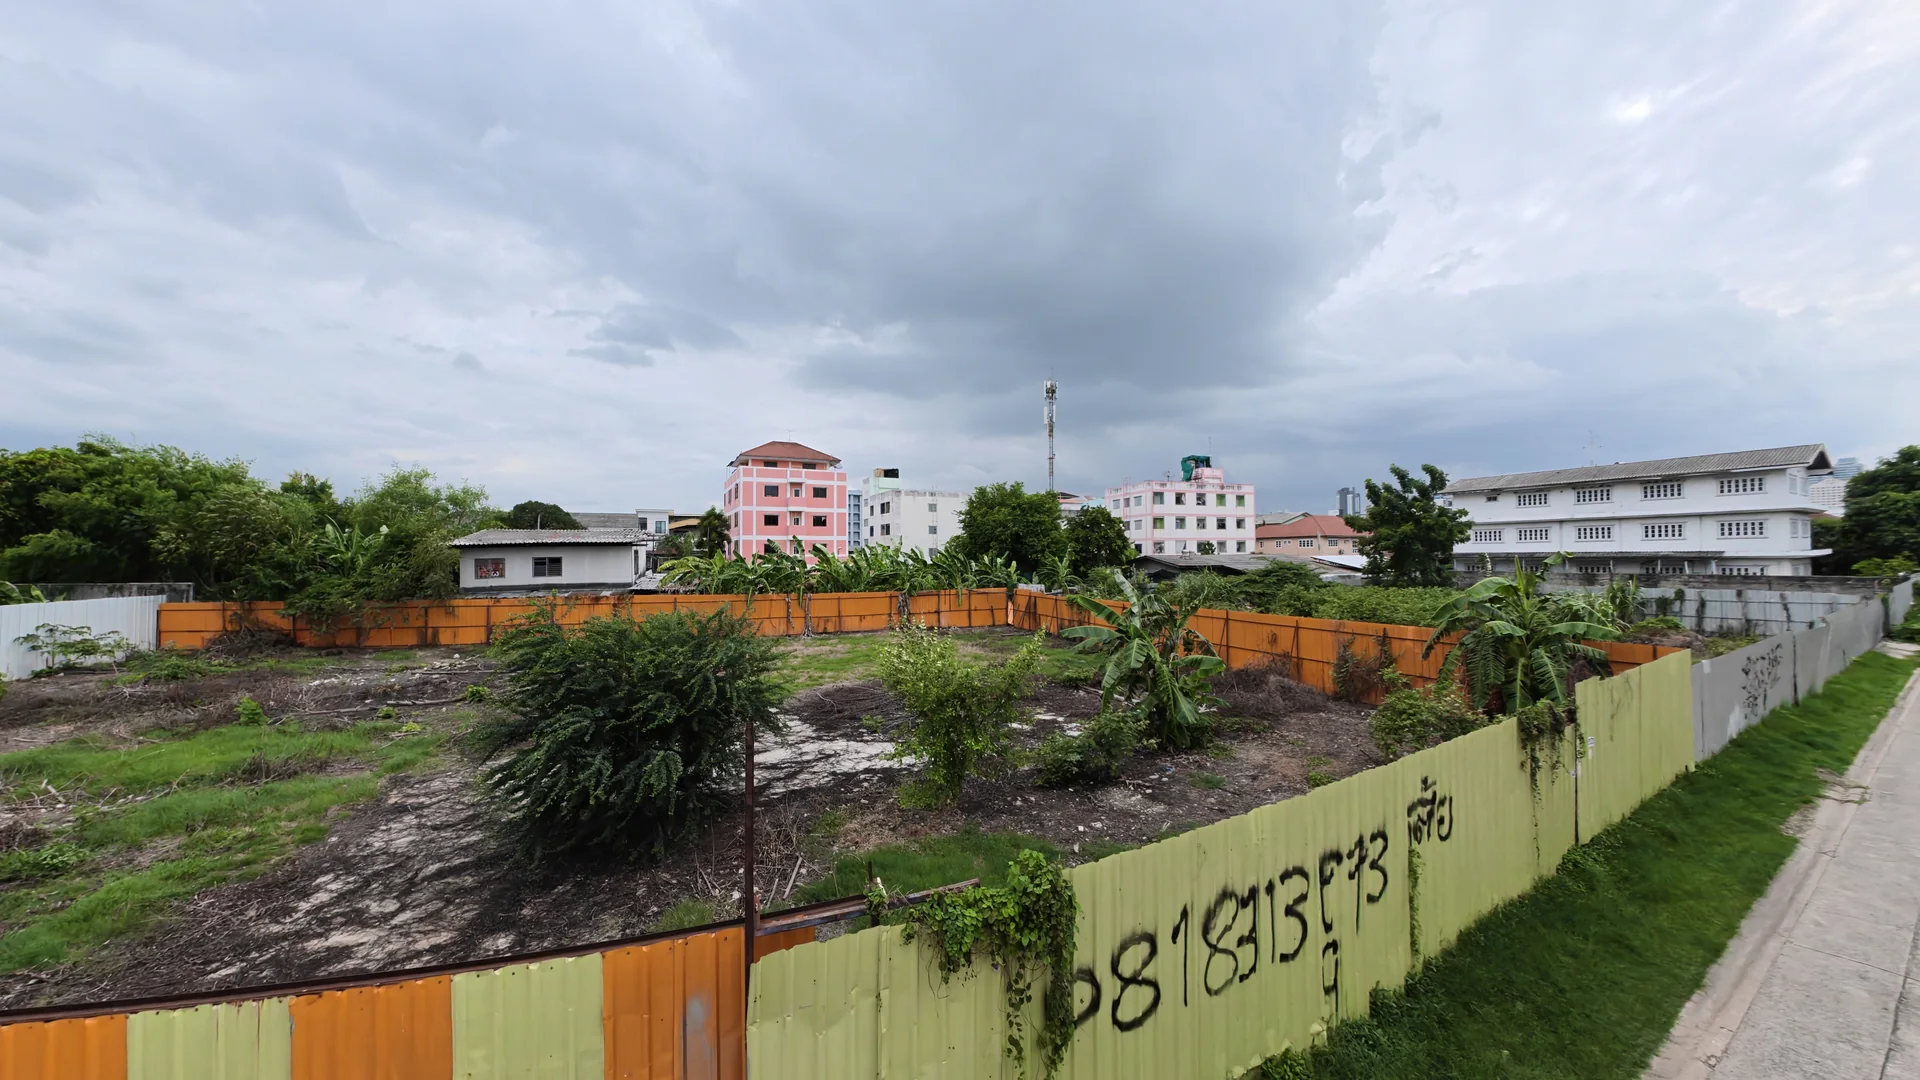
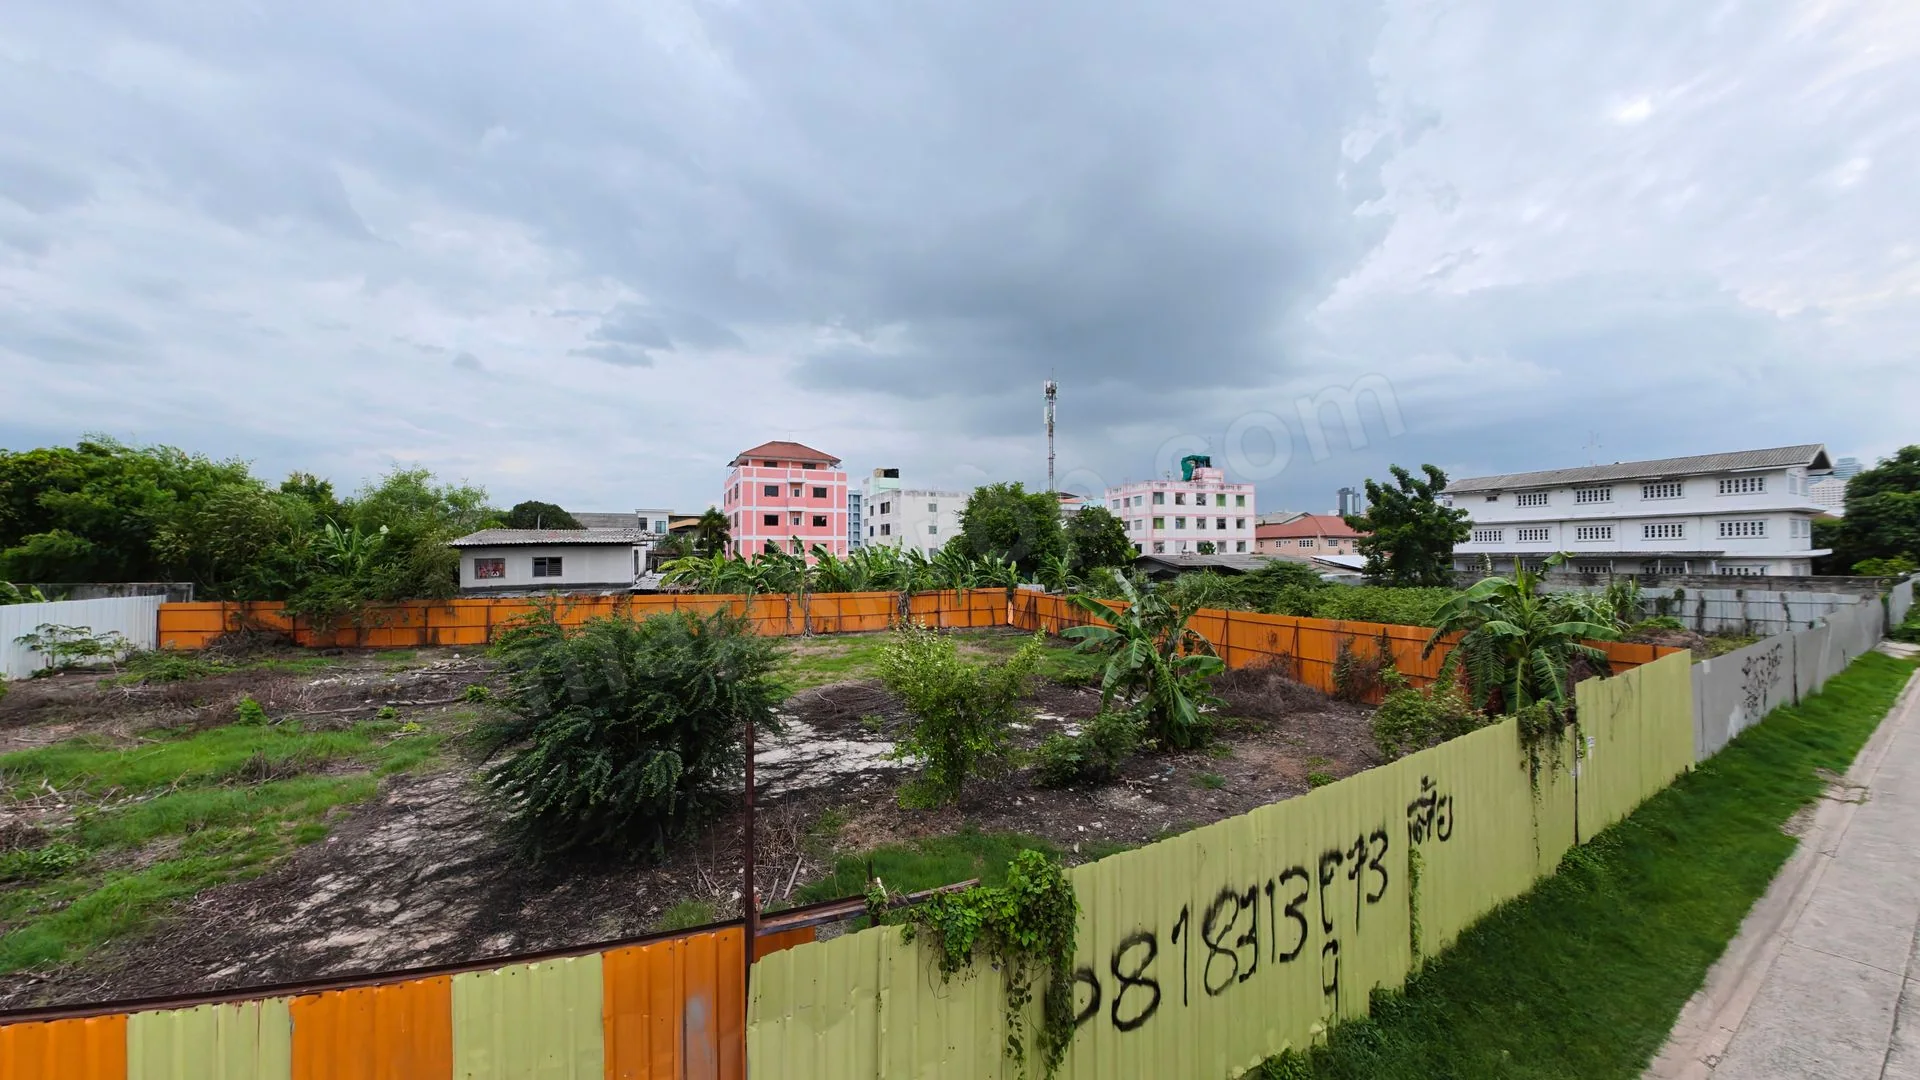
feat: optimize mobile land listing layout and watermark media

diff --git a/src/app/(app)/(listings)/real-estate-listings/[handle]/LandListingView.tsx b/src/app/(app)/(listings)/real-estate-listings/[handle]/LandListingView.tsx
@@ -54,7 +54,7 @@ const LandListingView = ({ listing }: { listing: PropertyListingDetail }) => {
 
   return (
     <div className="pb-24 min-[744px]:pb-0">
-      <main className="mx-auto max-w-screen-xl px-3 py-4 sm:px-5 min-[744px]:px-6 min-[744px]:py-8 lg:px-8">
+      <main className="-mx-4 max-w-screen-xl px-3 py-4 sm:px-5 min-[744px]:mx-auto min-[744px]:px-6 min-[744px]:py-8 lg:px-8">
         <HeaderGallery images={images} media={media} gridType="grid2" />
 
         <div className="mt-7 grid gap-10 lg:grid-cols-[minmax(0,1fr)_340px] xl:gap-14">
